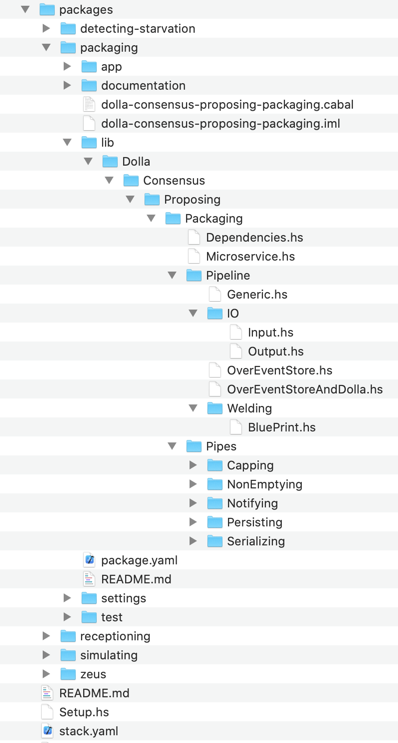
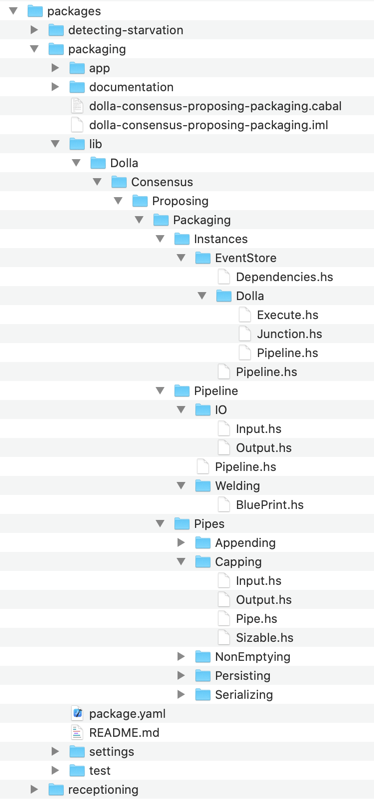
WIP

diff --git a/packages/packaging/README.md b/packages/packaging/README.md
@@ -1,12 +1,15 @@
 / [Consensus](https://github.com/dolla-consortium/consensus) / [Proposing](https://github.com/dolla-consortium/consensus-proposing) / [Packaging](#packaging-pipeline)
 # Packaging Pipeline
 - [Overview](#overview)
+  - [Pipeline Folder](#pipeline-folder)
+  - [Pipes Folder](#pipes-folder)
+  - [Instance Folder](#instance-folder)
 - [Pipeline](#pipeline)
+  - [Junction](#junction)
   - [IOs](#ios)
     - [Input/Commands](#inputcommands)
     - [Output/Events](#outputevents)
   - [Pipe recipe](#pipe-recipe)
-  - [Polymorphism](#polymorphism)
 - [Pipes](#pipes)
   - [Serializing](#serializing)
   - [NonEmptying](#nonemptying)
@@ -21,7 +24,7 @@
 
 `Packaging` is a ***Pipeline***
 - a persisted input stream : [Input.hs](lib/Dolla/Consensus/Proposing/Packaging/Pipeline/IO/Input.hs)
-- a line of Pipes Welded together
+- a line of Pipes Welded together in [Pipeline.hs](lib/Dolla/Consensus/Proposing/Packaging/Pipeline/Pipeline.hs)
   - composition of **deterministic** *Pipes*
   - Welding : Adapting IOs between pipes
 
@@ -38,30 +41,54 @@ The pipeline is using Pipes `Serializing, nonEmptying, capping, persisting`, mea
 
 ### Instance Folder
 
-`Packaging` could be Executed into different environment defined by the type Log Engine used and the business logic running on top of the consensus layer.
-So far we have only one environment which the EventStore and our own Dolla Business Logic
+`Packaging` is Polymorphic by
+- The Log Engine used
+- The Business Logic used on top of the consensus layer (requests in that context)
 
-You'll find :
+You'll find in this folder different version of Pipeline.hs "polymorphically reduced" and concrete
+- [Pipeline.hs](lib/Dolla/Consensus/Proposing/Packaging/Instances/EventStore/Pipeline.hs) over the event store
+- [Pipeline.hs](lib/Dolla/Consensus/Proposing/Packaging/Instances/EventStore/Dolla/Pipeline.hs) over the event store + Dolla Dummy Requests (Concrete Version)
+
+`Packaging` has some DevOps features as well
 
 - [Settings.hs](settings/lib/Dolla/Consensus/Proposing/Packaging/EventStore/Settings.hs)  always into a separated project `xxxx-packaging-settings` for deployment purposes in Zeus
-- [Dependencies.hs](lib/Dolla/Consensus/Proposing/Packaging/Execution/EventStore/Dependencies.hs) are derived from Settings if sub-dependencies are all Healthy
-- [Execute.hs](lib/Dolla/Consensus/Proposing/Packaging/Execution/EventStore/Dolla/Execute.hs)
-    - Perform the HealhtChecks to obtain the pipeline dependencies
-    - Execute the pipeline
-    - Put the Microservice back in HealthCheck mode if any Exception bubbles up in the pipeline during execution.
+- [Dependencies.hs](lib/Dolla/Consensus/Proposing/Packaging/Instances/EventStore/Dependencies.hs) are derived from Settings if sub-dependencies are all Healthy
+
+[Execute.hs](lib/Dolla/Consensus/Proposing/Packaging/Instances/EventStore/Dolla/Execute.hs) is an executable instance of the Pipeline
+- Perform the HealhtChecks to obtain the pipeline dependencies
+- Execute the pipeline + load the [junctions](#junction) in the EventStore Microservice
+- Put the Microservice back in HealthCheck mode if any Exception bubbles up in the pipeline during execution.
 
 N.B : Microservice configuration and Deployment Logic are defined in Zeus : [Pipeline.hs](../zeus/lib/Dolla/Consensus/Proposing/Zeus/Local/Pipeline.hs)
 </div>
 
 # Pipeline
-## IOs
-### Input/Commands
+## Junction
 
-> Defined in [Input.hs](lib/Dolla/Consensus/Proposing/Packaging/Pipeline/IO/Input.hs)
+A Junction (Merger) is
+   - a set of persisted input streams
+   - a nondeterministic logic for merging these input streams
+   - a persisted output stream (input of a pipeline)
 
 The persisted input stream is the junction of 2 upstreams pipelines
 - [Receptioning](../receptioning/README.md) providing collected requests
 - [Detecting-Starvation](../detecting-starvation/README.md) transmitting Local-Proposal-Starvation Notifications
+
+We are using the "User Defined Projections" feature from the EventStore to implement this junction :
+ - javaScript snippets
+ - loaded in the event store microservice directly
+ - more details : https://eventstore.org/docs/projections/api/index.html
+
+It has allowed us to move quicker on the proof of concept, but we'll need to do eventually our own to leverage Performance.
+
+> Defined in [Junction.hs](lib/Dolla/Consensus/Proposing/Packaging/Instances/EventStore/Dolla/Junction.hs)
+
+> Executed in [Execute.hs](lib/Dolla/Consensus/Proposing/Packaging/Instances/EventStore/Dolla/Execute.hs)
+
+## IOs
+### Input/Commands
+
+> Defined in [Input.hs](lib/Dolla/Consensus/Proposing/Packaging/Pipeline/IO/Input.hs)
 
 #### 1. Package request
 
@@ -132,16 +159,6 @@ Under the responsibility of
 - [`Persisting`](#persisting) Pipe
 
 N.B : [`Serializing`](#serializing) will be removed eventually. We'll evaluate this when addressing data compression.
-
-## Polymorphism
-
-The Generic Pipeline is agnostic from
-- The log Engine used to retrieve Input and persist Output
-- The structure of the request manipulated
-
-To execute `Packaging`, we need to turn [Generic.hs](lib/Dolla/Consensus/Proposing/Packaging/Pipeline/Pipeline.hs) into a concrete Pipeline
-- [OverEventStore.hs](lib/Dolla/Consensus/Proposing/Packaging/Pipeline/Over/EventStore/Pipeline.hs) : EventStore is the log Engine used (Polymorphism reduced)
-- [OverEventStoreAndDolla.hs](lib/Dolla/Consensus/Proposing/Packaging/Pipeline/Over/EventStore/Dolla/Pipeline.hs) : We are using Dummy Dolla Requests with the EventStore (Concrete Pipeline)
 
 # Pipes
 ## Serializing
